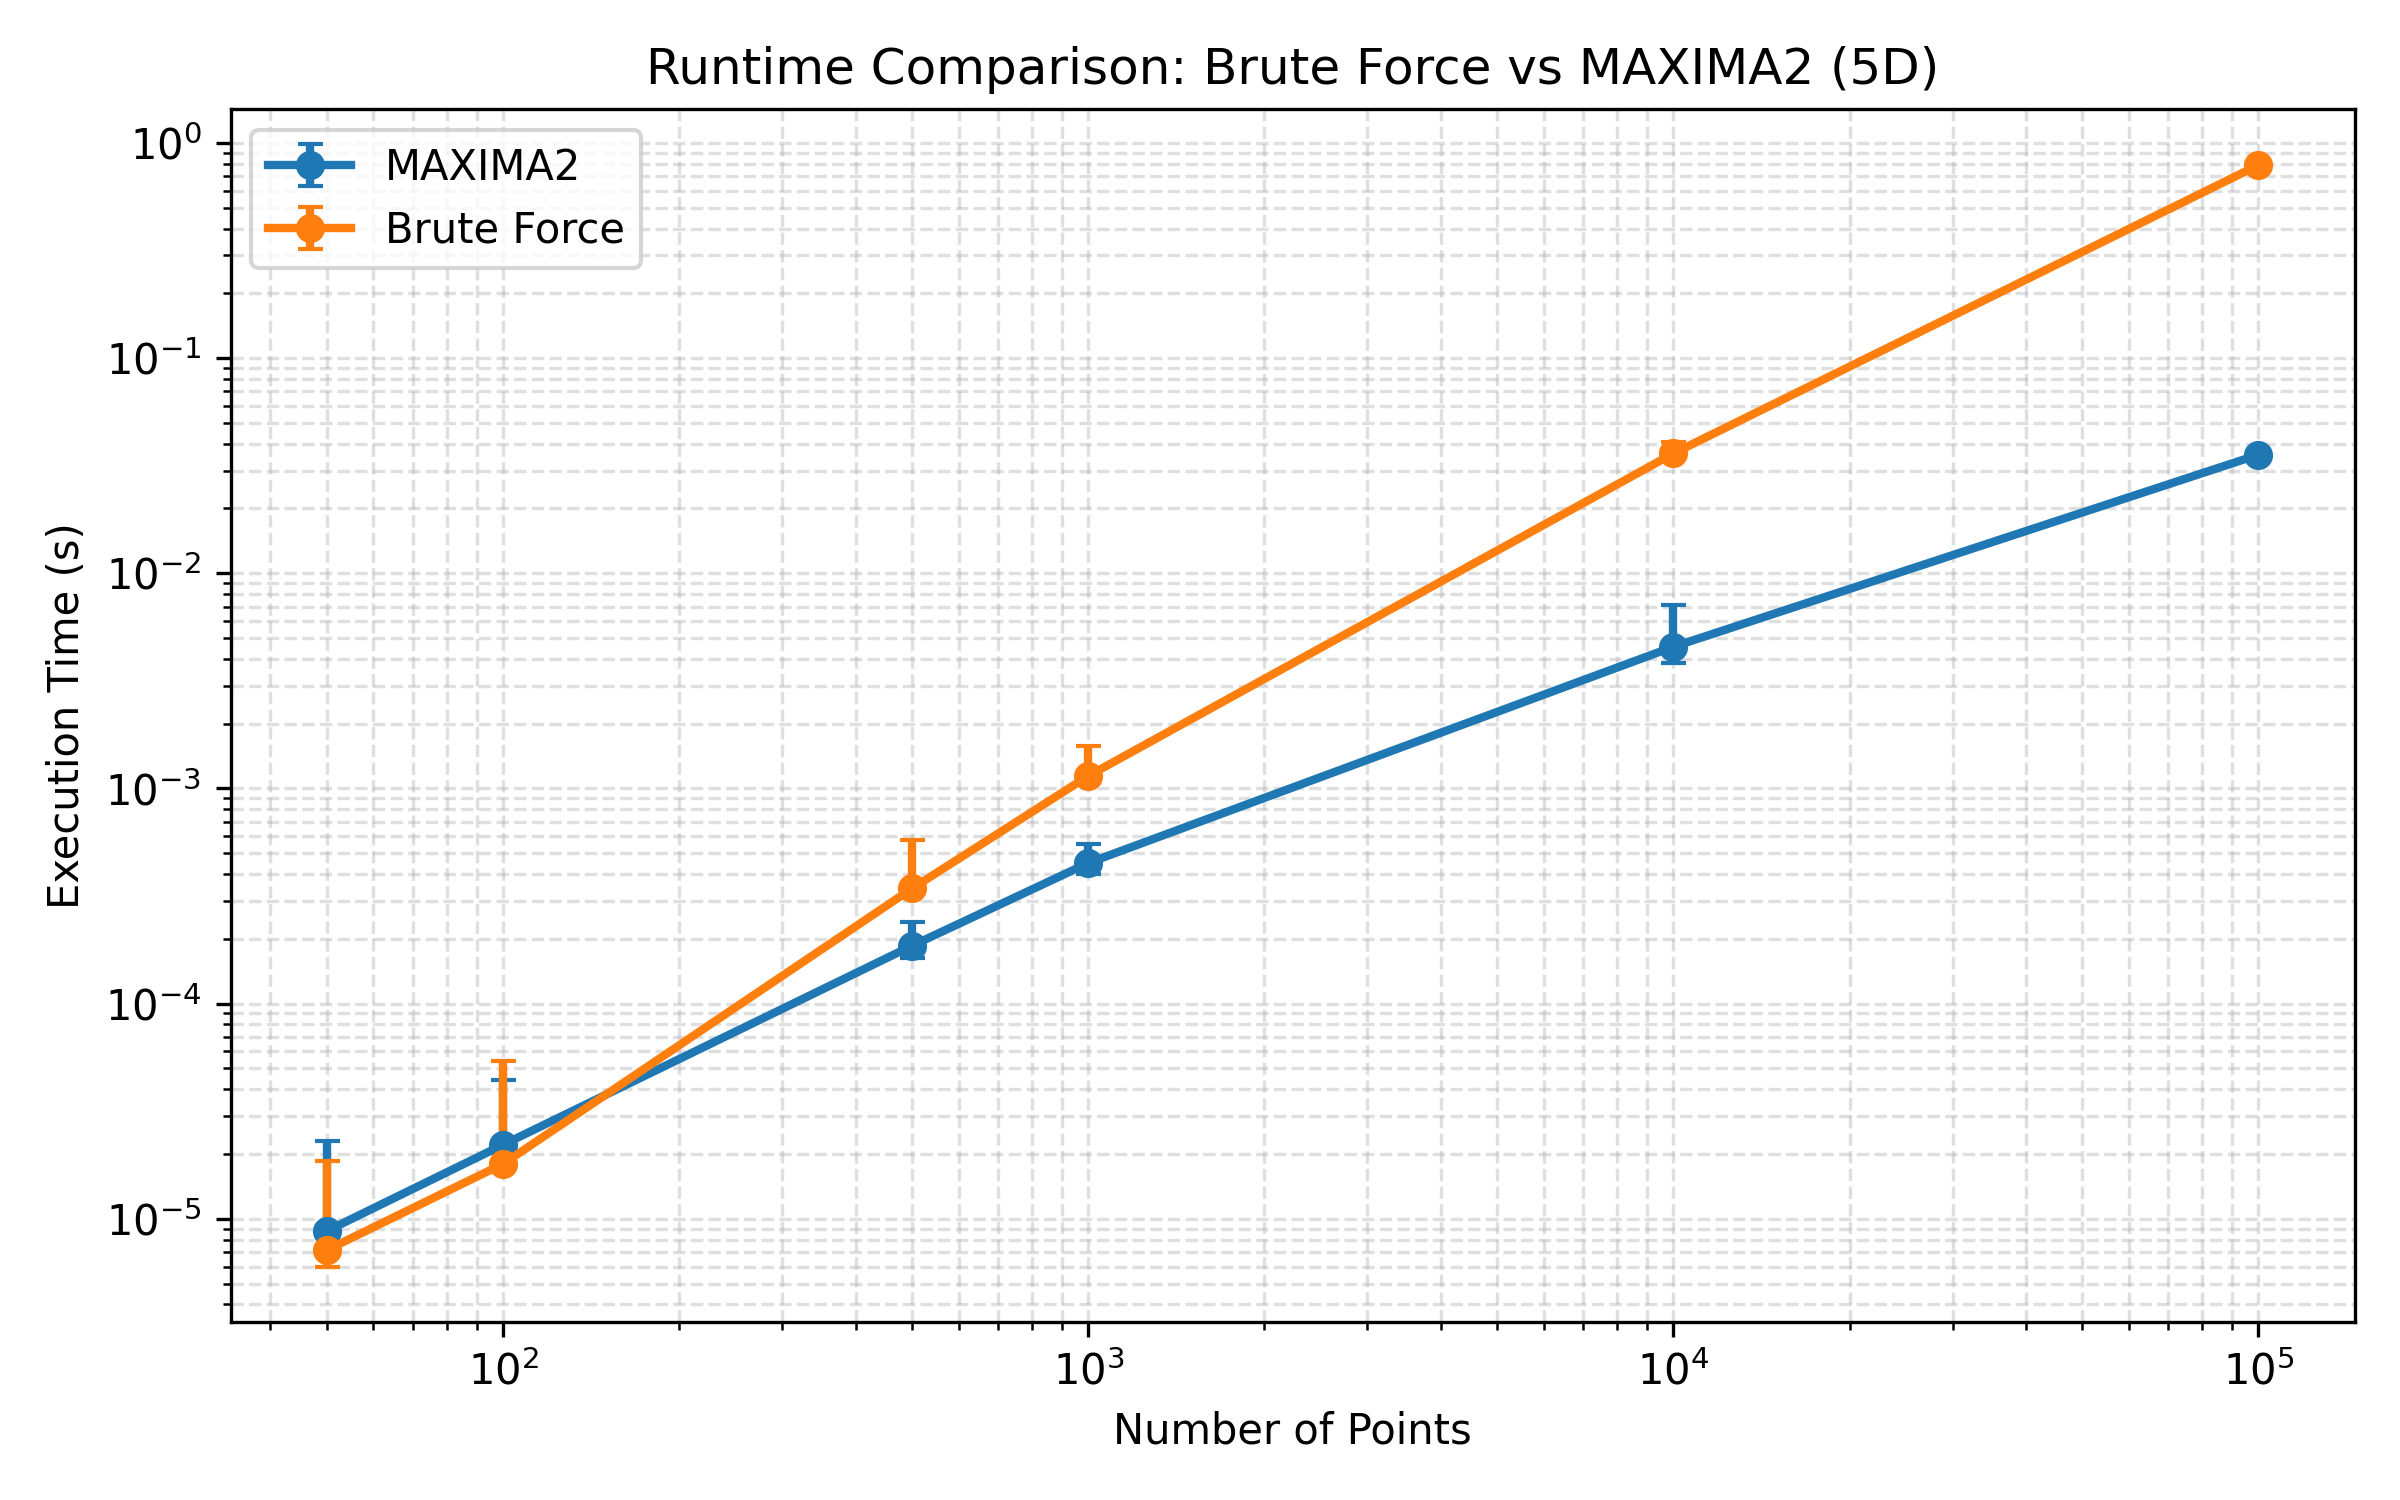
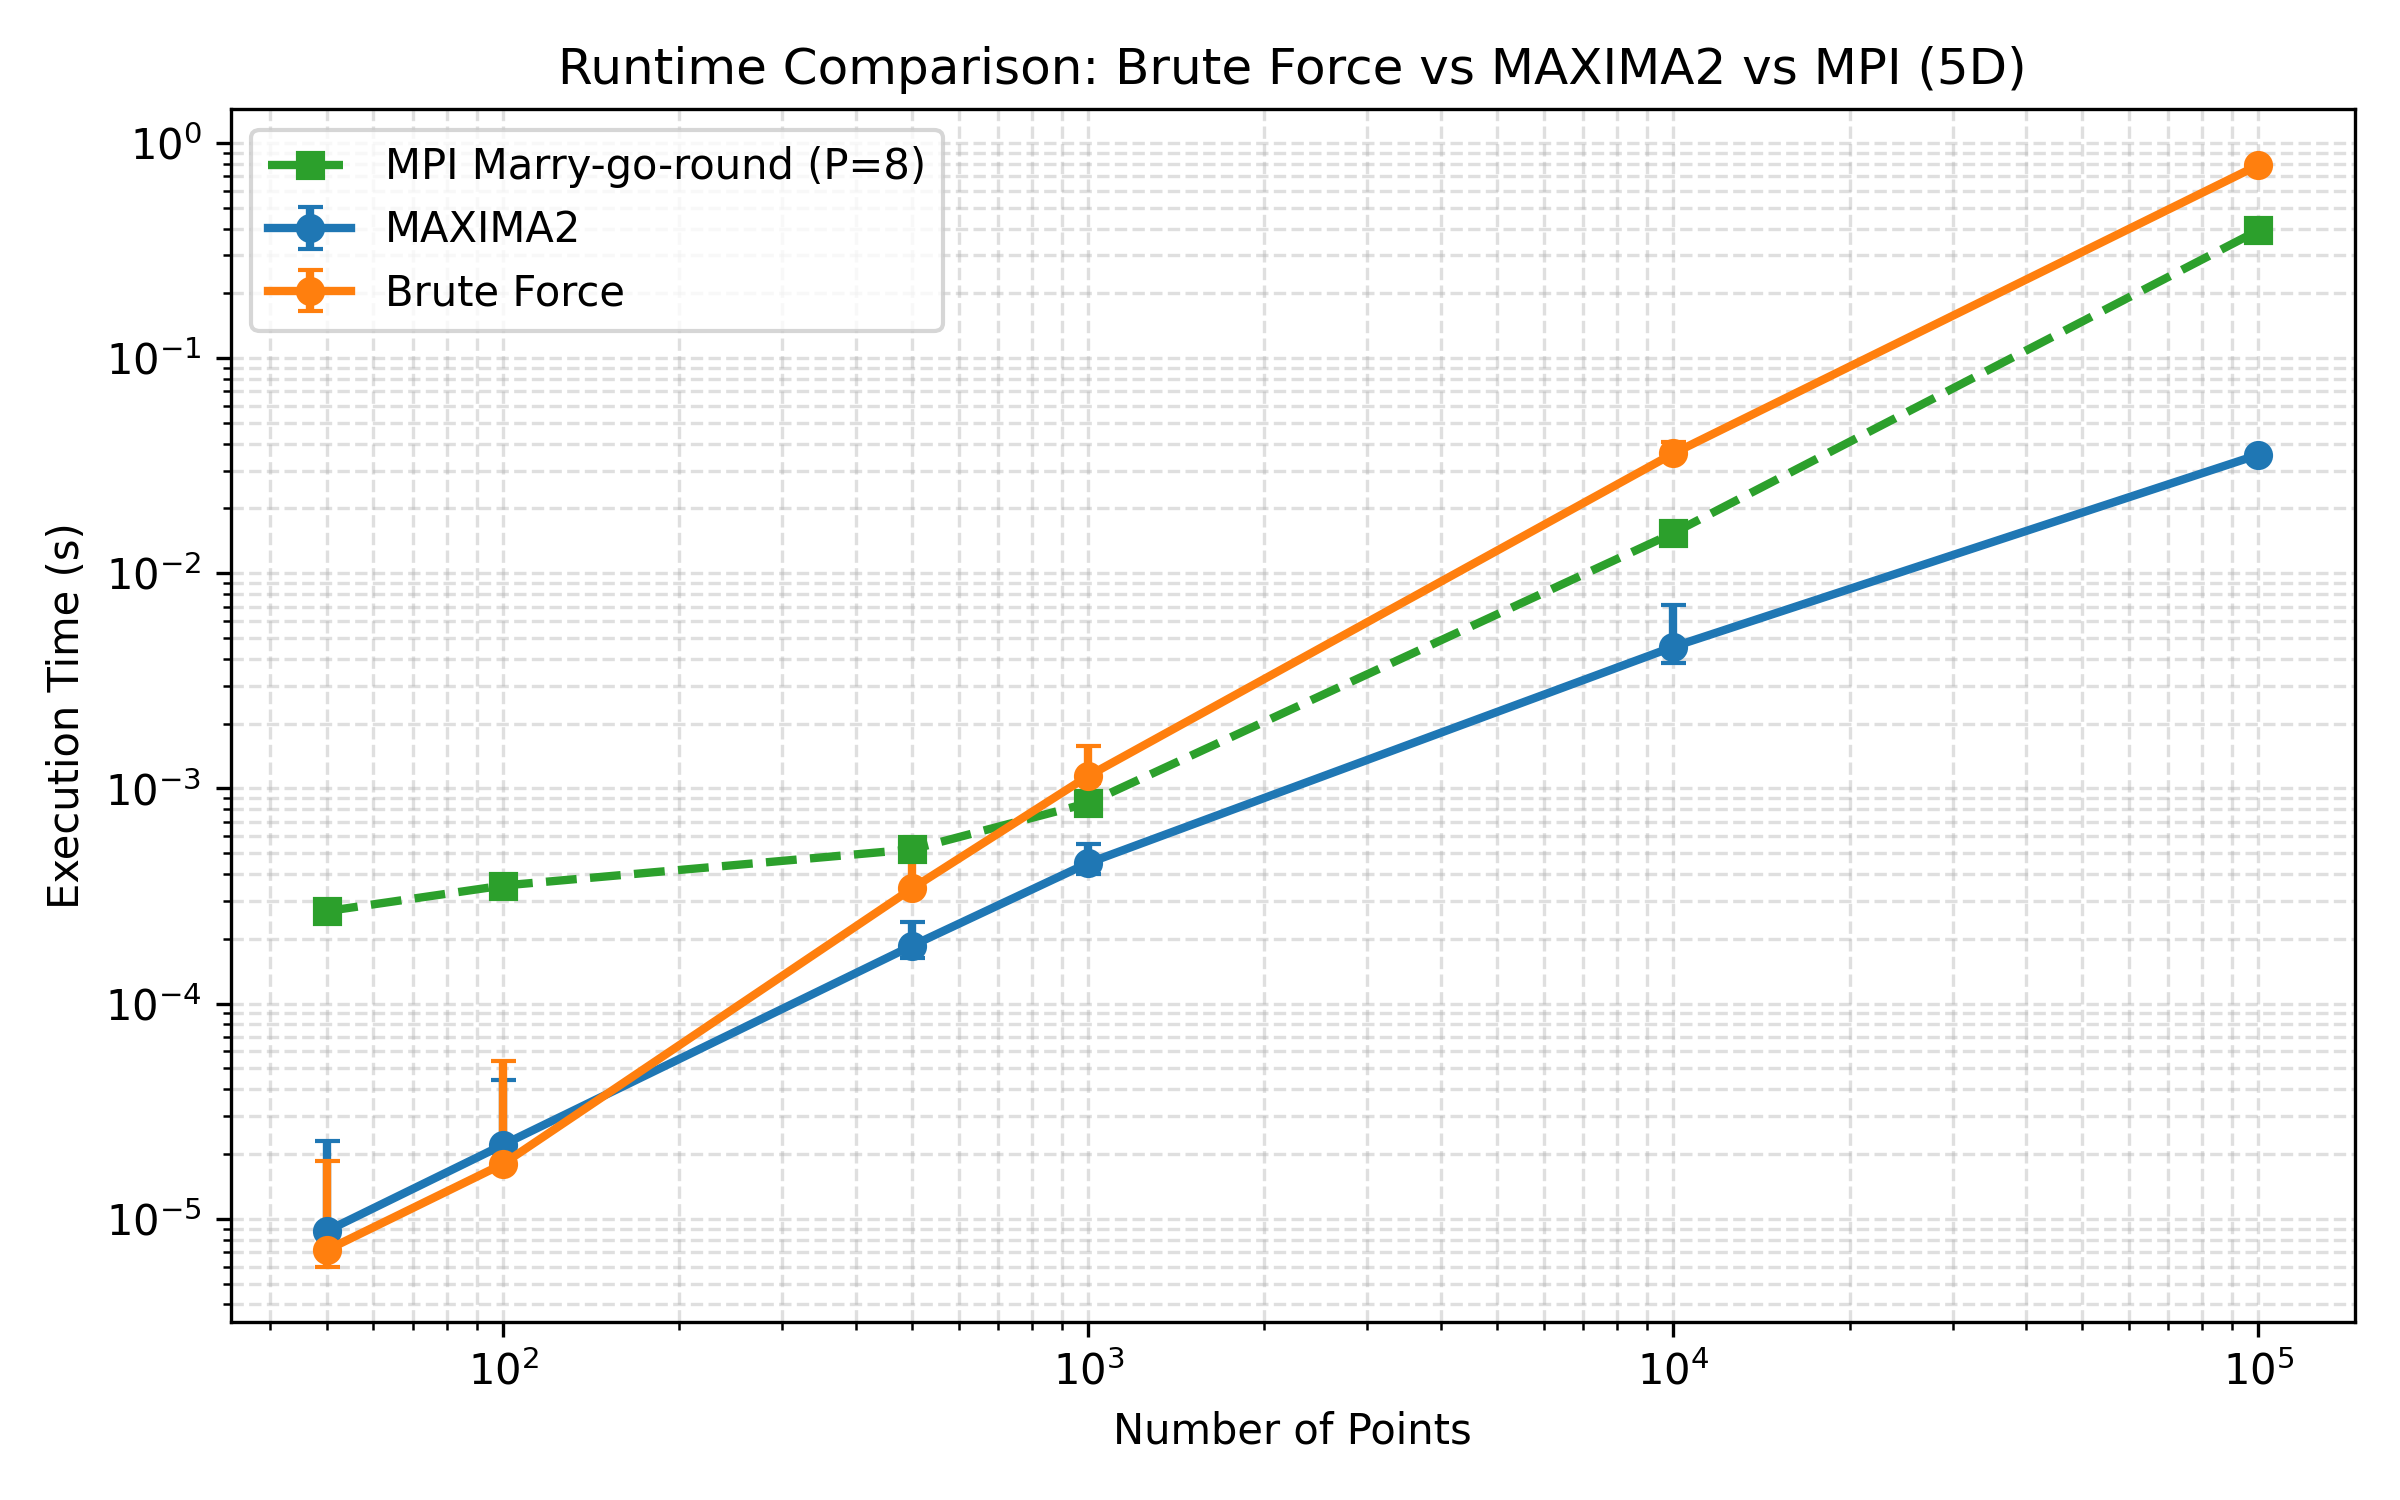
added the marry go round curve to the runtime comparison plots

diff --git a/plots/plot_results.py b/plots/plot_results.py
@@ -3,11 +3,17 @@ import matplotlib.pyplot as plt
 from benchmark_data import (
     BRUTE_FORCE_CSV,
     FIGURES_DIR,
+    MARRY_GO_ROUND_CSV,
     MAXIMA_CSV,
     load_benchmark,
+    load_parallel_benchmark,
     require,
 )
 
+
+# Process count drawn for the MPI marry-go-round curve; the benchmark CSV holds
+# every count from 1 to 20, and one curve keeps the comparison readable.
+MARRY_GO_ROUND_PROCESSES = 8
 
 require(MAXIMA_CSV, BRUTE_FORCE_CSV)
 
@@ -15,6 +21,19 @@ FIGURES_DIR.mkdir(exist_ok=True)
 
 maxima = load_benchmark(MAXIMA_CSV)
 brute_force = load_benchmark(BRUTE_FORCE_CSV)
+
+# The MPI results come from a local run and are not tracked, so the third curve
+# is optional: the two sequential series still plot without it.
+if MARRY_GO_ROUND_CSV.exists():
+    marry_go_round = load_parallel_benchmark(
+        MARRY_GO_ROUND_CSV, MARRY_GO_ROUND_PROCESSES
+    )
+else:
+    marry_go_round = None
+    print(
+        f"No MPI results at {MARRY_GO_ROUND_CSV}; "
+        "plotting MAXIMA2 and brute force only."
+    )
 
 
 def draw(frame, label, color):
@@ -44,19 +63,42 @@ for dim in sorted(maxima["dimensions"].unique()):
     draw(maxima_subset, "MAXIMA2", "tab:blue")
     draw(brute_force_subset, "Brute Force", "tab:orange")
 
+    if marry_go_round is not None:
+        marry_subset = marry_go_round[
+            marry_go_round["dimensions"] == dim
+        ].sort_values("num_points")
+
+        if not marry_subset.empty:
+            plt.plot(
+                marry_subset["num_points"],
+                marry_subset["execution_time_s"],
+                marker="s",
+                markersize=6,
+                linewidth=2,
+                linestyle="--",
+                color="tab:green",
+                label=f"MPI Marry-go-round (P={MARRY_GO_ROUND_PROCESSES})",
+            )
+
     plt.xscale("log")
     plt.yscale("log")
 
     plt.xlabel("Number of Points")
     plt.ylabel("Execution Time (s)")
-    plt.title(f"Runtime Comparison: Brute Force vs MAXIMA2 ({dim}D)")
+    plt.title(f"Runtime Comparison: Brute Force vs MAXIMA2 vs MPI ({dim}D)")
 
     plt.legend()
     plt.grid(True, which="both", linestyle="--", alpha=0.4)
 
     plt.tight_layout()
 
-    plt.savefig(FIGURES_DIR / f"runtime_comparison_{dim}D.png", dpi=300)
+    # metadata={"Software": None} keeps the plotting library's name out of the
+    # PNG chunk.
+    plt.savefig(
+        FIGURES_DIR / f"runtime_comparison_{dim}D.png",
+        dpi=300,
+        metadata={"Software": None},
+    )
 
     plt.close()
 

diff --git a/plots/benchmark_data.py b/plots/benchmark_data.py
@@ -14,6 +14,7 @@ DATA_DIR = BASE_DIR / "data"
 
 MAXIMA_CSV = RESULTS_DIR / "maxima_benchmark.csv"
 BRUTE_FORCE_CSV = RESULTS_DIR / "brute_force_benchmark.csv"
+MARRY_GO_ROUND_CSV = RESULTS_DIR / "mpi_marry_go_round_benchmark.csv"
 
 
 def require(*paths):
@@ -26,6 +27,23 @@ def require(*paths):
             "Run the Maxima_method and brute_force drivers first "
             "(see README, section 7)."
         )
+
+
+def load_parallel_benchmark(path, processes):
+    """Read the MPI benchmark CSV for one process count.
+
+    That CSV stores execution times in seconds, not microseconds, so it is
+    loaded separately from load_benchmark. One row per (dimension, N) holds the
+    median over the repetitions of that configuration.
+    """
+    frame = pd.read_csv(path)
+    frame = frame[frame["num_processes"] == processes]
+
+    return (
+        frame.groupby(["dimensions", "num_points"], as_index=False)
+        .agg(execution_time_s=("execution_time", "median"))
+        .sort_values("num_points")
+    )
 
 
 def load_benchmark(path):
